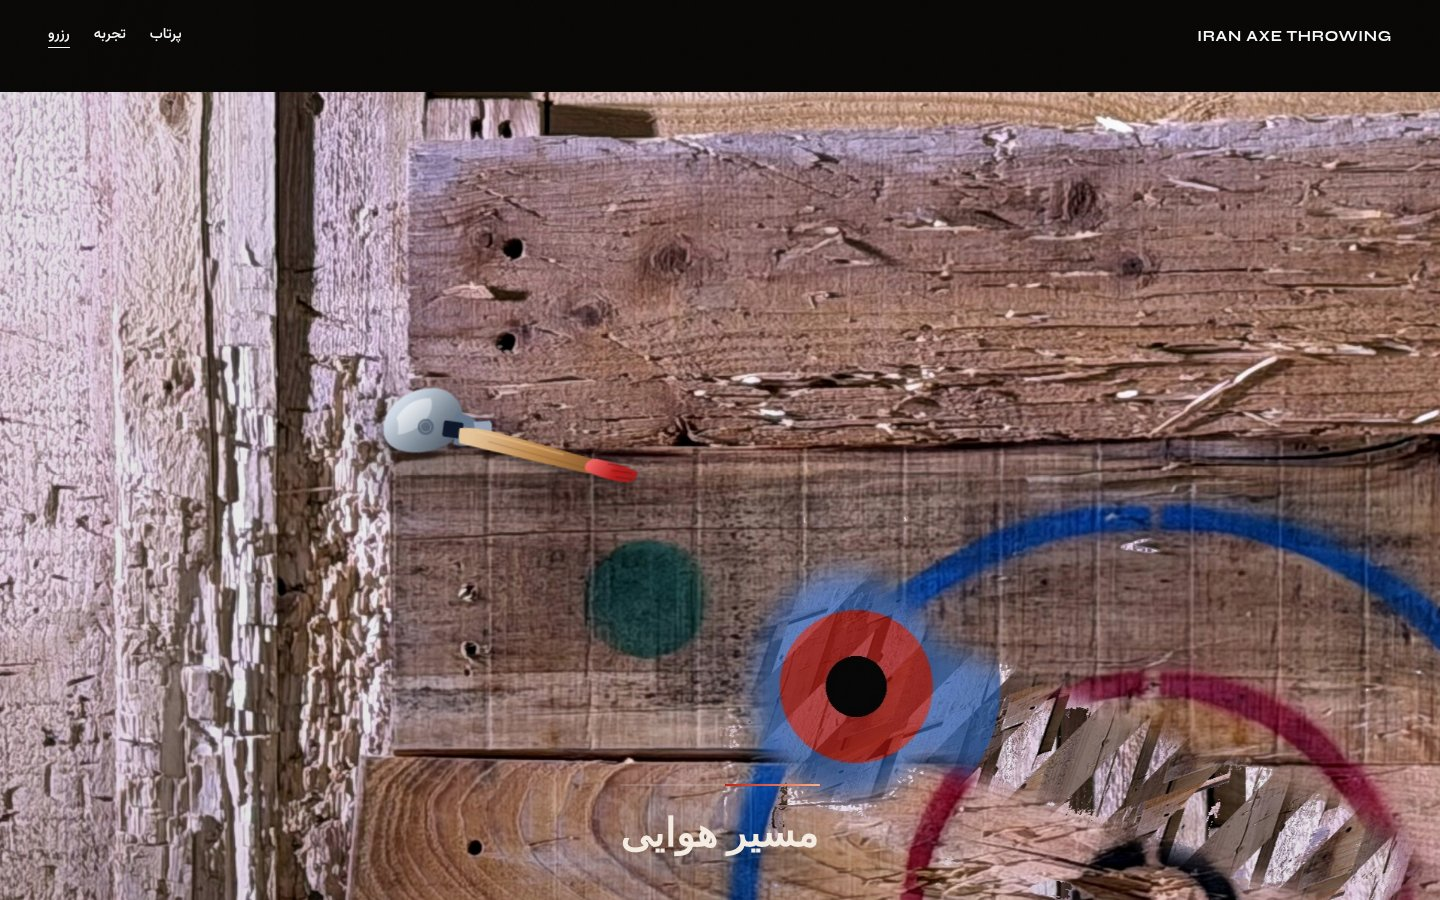
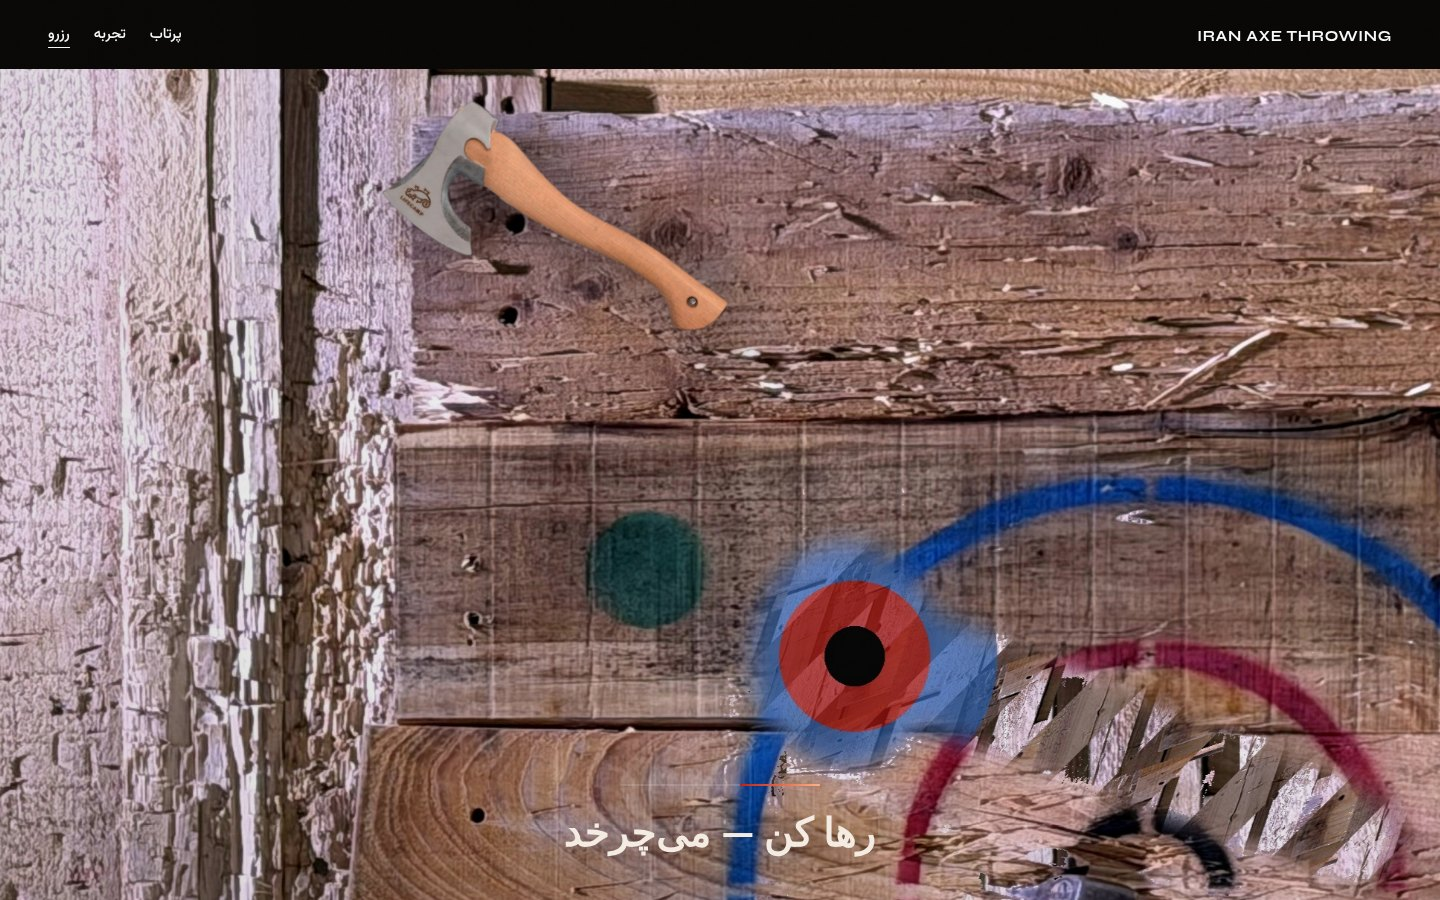
Use real LIFECAMP axe photo for scroll throw

diff --git a/js/app.js b/js/app.js
@@ -24,11 +24,11 @@
   ];
 
   gsap.set(axe, {
-    left: "18%",
-    top: "68%",
+    left: "16%",
+    top: "70%",
     xPercent: -50,
     yPercent: -50,
-    rotate: -24,
+    rotate: -40,
     scale: 0.95,
     opacity: 0,
   });
@@ -71,27 +71,27 @@
   tl.to(throwCopy, { opacity: 1, duration: 0.3 }, 1.05);
 
   // wind-up
-  tl.to(axe, { left: "12%", top: "74%", rotate: -48, scale: 1.02, duration: 0.85 }, 1.15);
+  tl.to(axe, { left: "12%", top: "76%", rotate: -78, scale: 1.02, duration: 0.85 }, 1.15);
   tl.to(photo, { yPercent: 16, scale: 1.12, duration: 0.85 }, 1.15);
   tl.to(veil, { opacity: 0.28, duration: 0.85 }, 1.15);
 
   // release + spin
-  tl.to(axe, { left: "28%", top: "50%", rotate: 220, scale: 1.08, duration: 1.2 }, 2.0);
+  tl.to(axe, { left: "30%", top: "50%", rotate: 260, scale: 1.1, duration: 1.2 }, 2.0);
   tl.to(photo, { yPercent: 24, scale: 1.16, duration: 1.2 }, 2.0);
   tl.to(veil, { opacity: 0.16, duration: 1.2 }, 2.0);
 
   // mid-air
-  tl.to(axe, { left: "44%", top: "45%", rotate: 520, scale: 0.95, duration: 1.25 }, 3.2);
+  tl.to(axe, { left: "46%", top: "45%", rotate: 560, scale: 0.98, duration: 1.25 }, 3.2);
   tl.to(photo, { yPercent: 32, scale: 1.2, duration: 1.25 }, 3.2);
   tl.to(veil, { opacity: 0.1, duration: 1.25 }, 3.2);
 
   // approach
-  tl.to(axe, { left: "54%", top: "43%", rotate: 700, scale: 0.72, duration: 1.1 }, 4.45);
+  tl.to(axe, { left: "54%", top: "43%", rotate: 720, scale: 0.7, duration: 1.1 }, 4.45);
   tl.to(photo, { yPercent: 38, scale: 1.24, duration: 1.1 }, 4.45);
   tl.to(veil, { opacity: 0.06, duration: 1.1 }, 4.45);
 
-  // IMPACT — crossfade to real photo with axe stuck
-  tl.to(axe, { left: "56%", top: "43%", rotate: 735, scale: 0.55, duration: 0.35 }, 5.55);
+  // IMPACT — crossfade to hit photo
+  tl.to(axe, { left: "55%", top: "43%", rotate: 748, scale: 0.52, duration: 0.35 }, 5.55);
   tl.fromTo(impact, { opacity: 0, scale: 0.2 }, { opacity: 1, scale: 14, duration: 0.3 }, 5.65);
   tl.to(impact, { opacity: 0, duration: 0.4 }, 5.95);
   tl.to(hitPlate, { opacity: 1, duration: 0.25 }, 5.7);

diff --git a/css/styles.css b/css/styles.css
@@ -126,13 +126,13 @@ button, input { font: inherit; }
 .axe {
   position: absolute;
   z-index: 4;
-  width: clamp(160px, 28vw, 320px);
+  width: clamp(72px, 11vw, 128px);
   height: auto;
   left: 18%;
-  top: 70%;
-  transform: translate(-50%, -50%) rotate(-18deg);
-  transform-origin: 22% 50%;
-  filter: drop-shadow(0 22px 28px rgba(0, 0, 0, 0.65));
+  top: 68%;
+  transform: translate(-50%, -50%) rotate(-35deg);
+  transform-origin: 50% 18%;
+  filter: drop-shadow(0 24px 32px rgba(0, 0, 0, 0.7));
   opacity: 0;
   pointer-events: none;
   will-change: transform, left, top, opacity;
@@ -338,7 +338,7 @@ button, input { font: inherit; }
 
 @media (max-width: 700px) {
   .nav a:not(.nav-link) { display: none; }
-  .axe { width: min(70vw, 220px); }
+  .axe { width: clamp(64px, 18vw, 96px); }
 }
 
 @media (prefers-reduced-motion: reduce) {

diff --git a/index.html b/index.html
@@ -31,7 +31,7 @@
         </div>
         <div class="scene-veil" id="scene-veil"></div>
 
-        <img class="axe" id="axe" src="assets/axe.svg" alt="" />
+        <img class="axe" id="axe" src="assets/axe.png" alt="" />
         <div class="impact" id="impact"></div>
 
         <div class="hero-copy" id="hero-copy">
